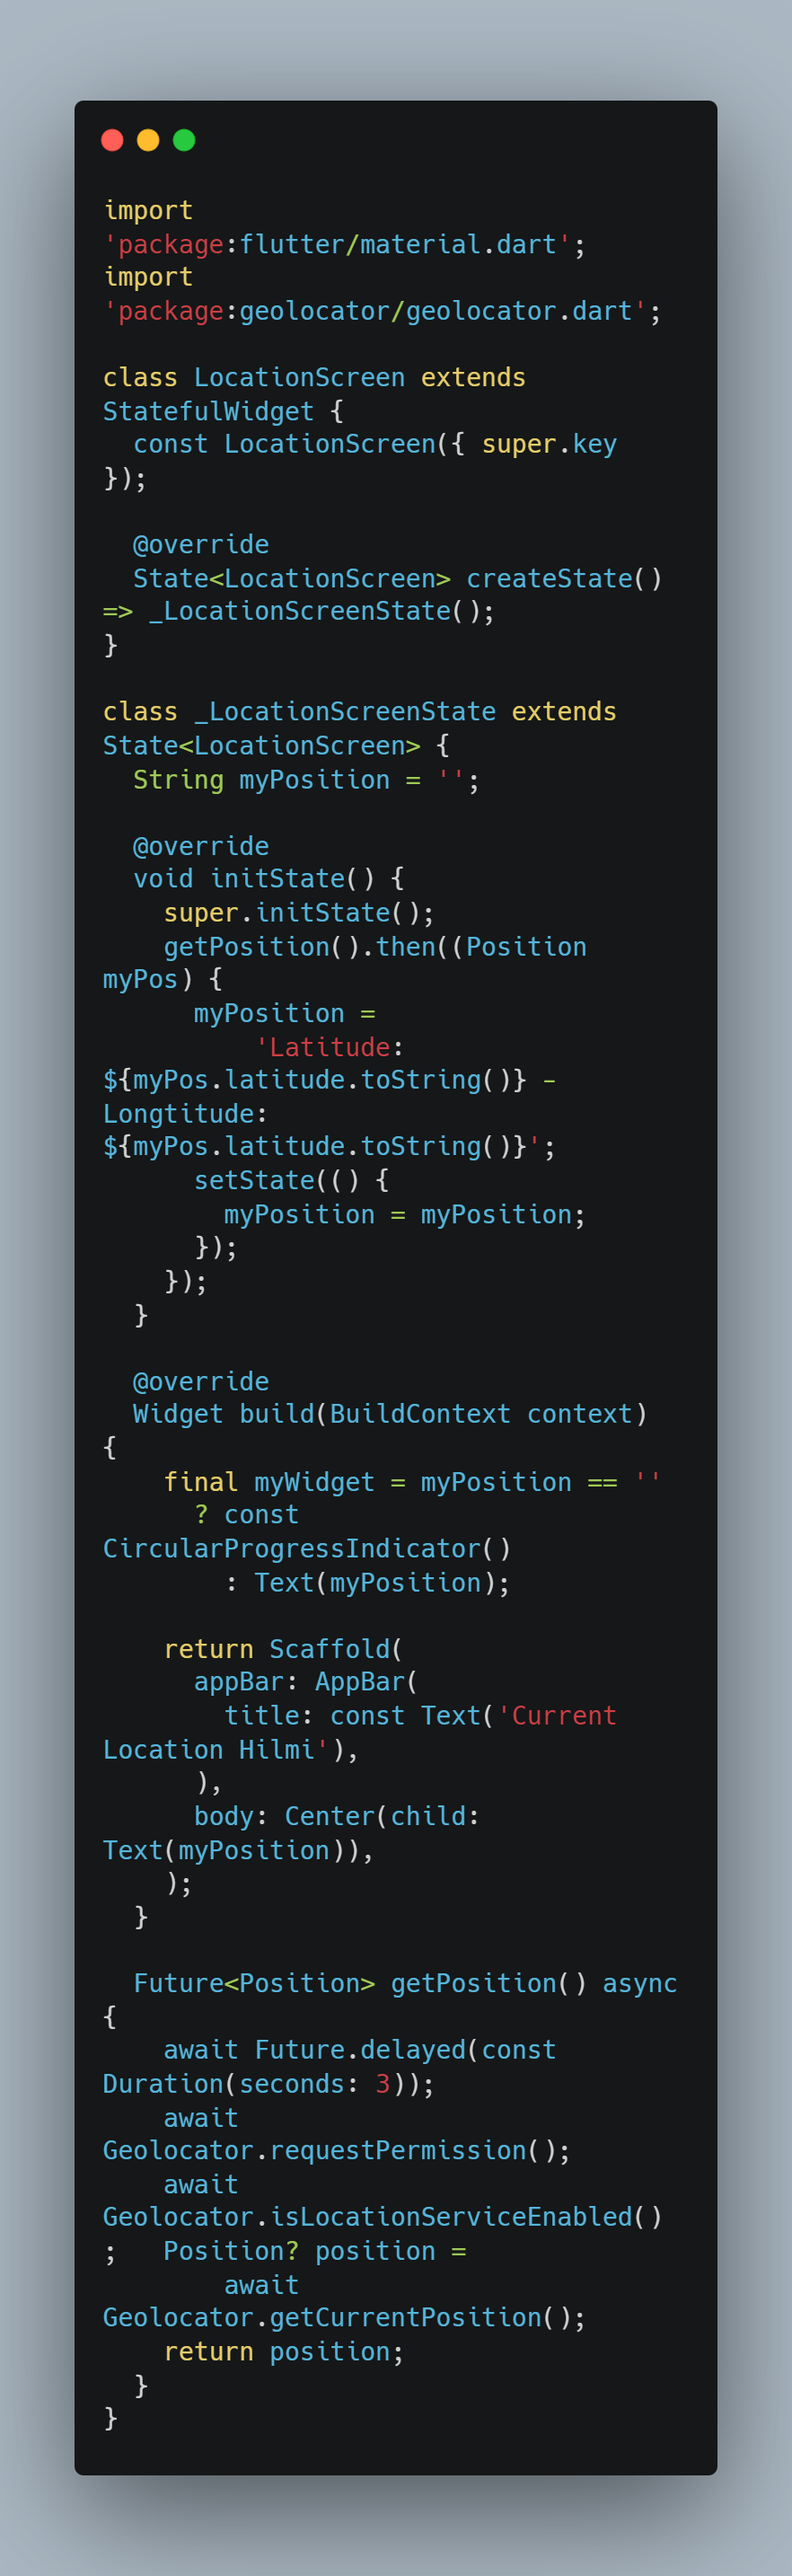
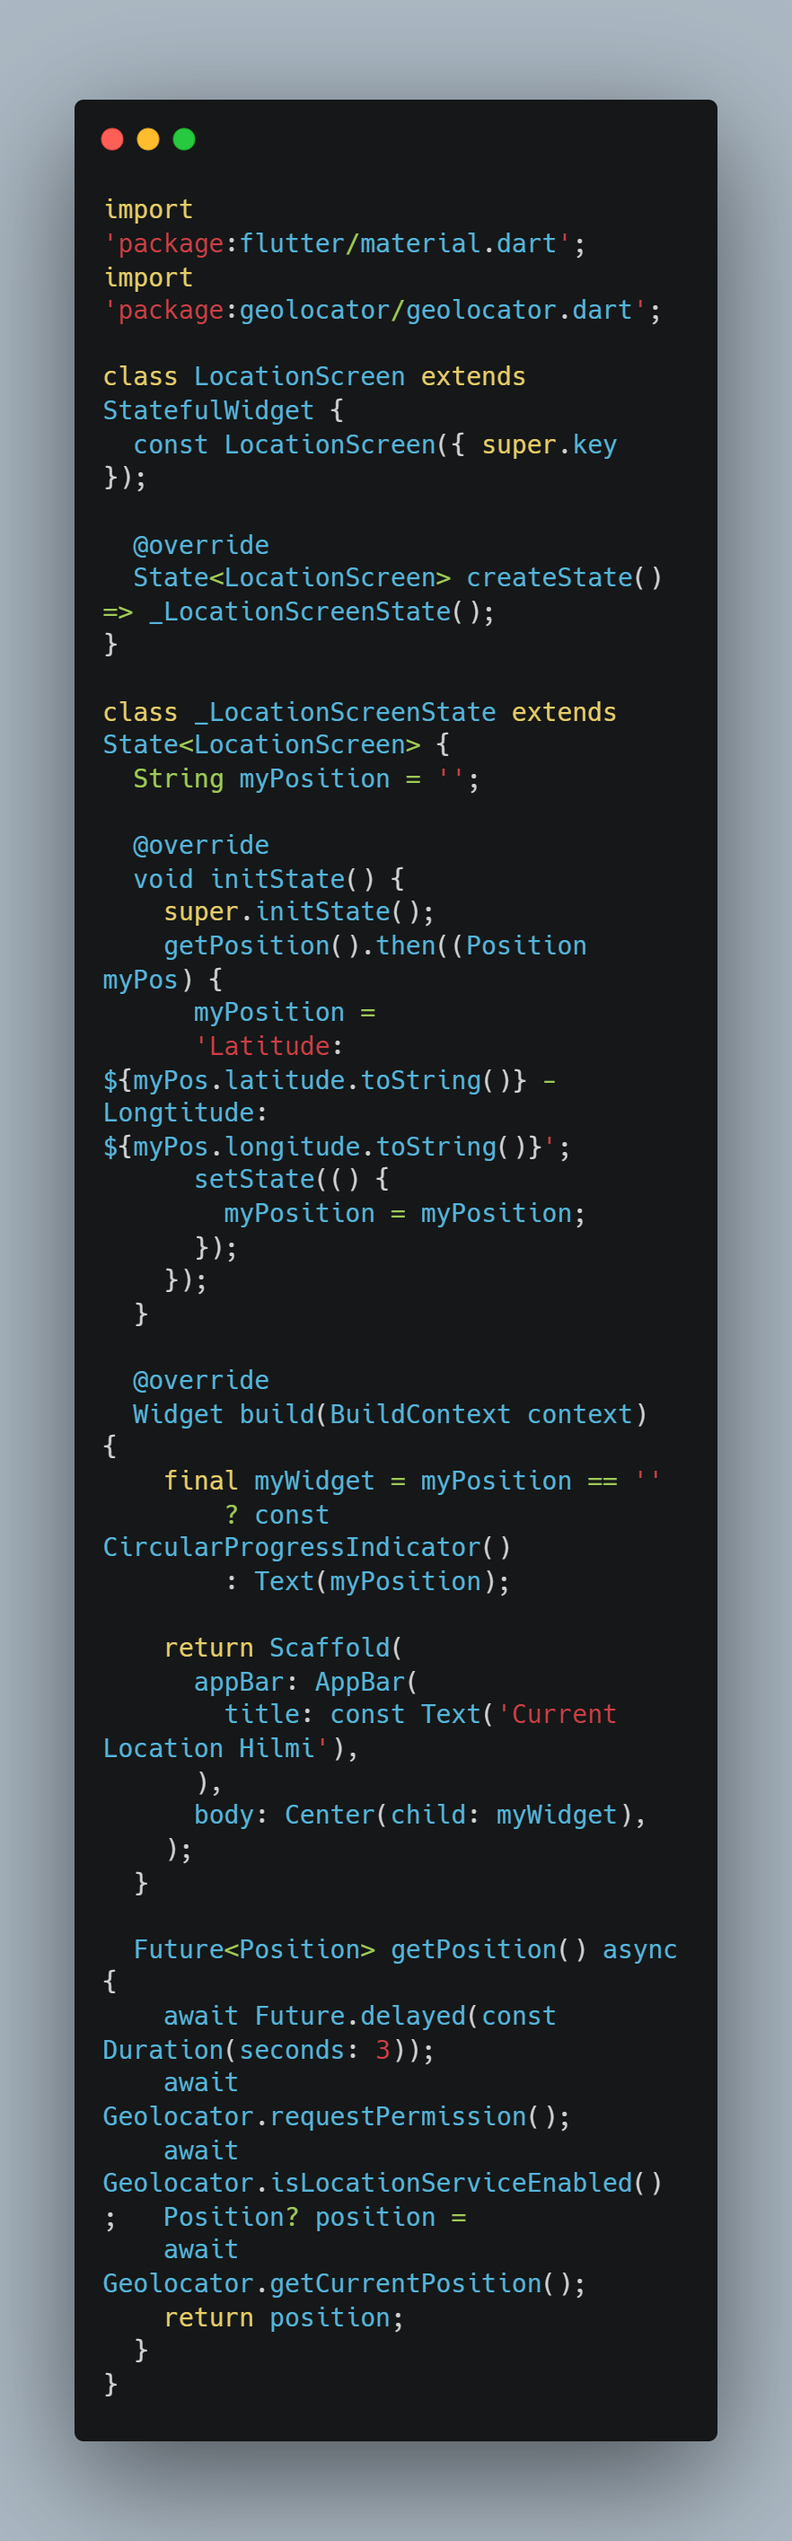
W11: Soal 11-12

diff --git a/lib/geolocation.dart b/lib/geolocation.dart
@@ -10,10 +10,12 @@ class LocationScreen extends StatefulWidget {
 
 class _LocationScreenState extends State<LocationScreen> {
   String myPosition = '';
+  Future<Position>? position;
 
   @override
   void initState() {
     super.initState();
+    position = getPosition();
     getPosition().then((Position myPos) {
       myPosition =
           'Latitude: ${myPos.latitude.toString()} - Longtitude: ${myPos.latitude.toString()}';
@@ -25,24 +27,29 @@ class _LocationScreenState extends State<LocationScreen> {
 
   @override
   Widget build(BuildContext context) {
-    final myWidget = myPosition == ''
-      ? const CircularProgressIndicator()
-        : Text(myPosition);
-
     return Scaffold(
-      appBar: AppBar(
-        title: const Text('Current Location Hilmi'),
+      appBar: AppBar(title: Text('Current Location Hilmi')),
+      body: Center(
+        child: FutureBuilder(
+          future: position,
+          builder: (BuildContext context, AsyncSnapshot<Position> snapshot) {
+            if (snapshot.connectionState == ConnectionState.waiting) {
+              return const CircularProgressIndicator();
+            } else if (snapshot.connectionState == ConnectionState.done) {
+              return Text(snapshot.data.toString());
+            } else {
+              return const Text('');
+            }
+          }
+        ),
       ),
-      body: Center(child: Text(myPosition)),
     );
   }
 
   Future<Position> getPosition() async {
-    await Future.delayed(const Duration(seconds: 3));
-    await Geolocator.requestPermission();
     await Geolocator.isLocationServiceEnabled();
-    Position? position =
-        await Geolocator.getCurrentPosition();
+    await Future.delayed(const Duration(seconds: 3));
+    Position position = await Geolocator.getCurrentPosition();
     return position;
   }
 }
